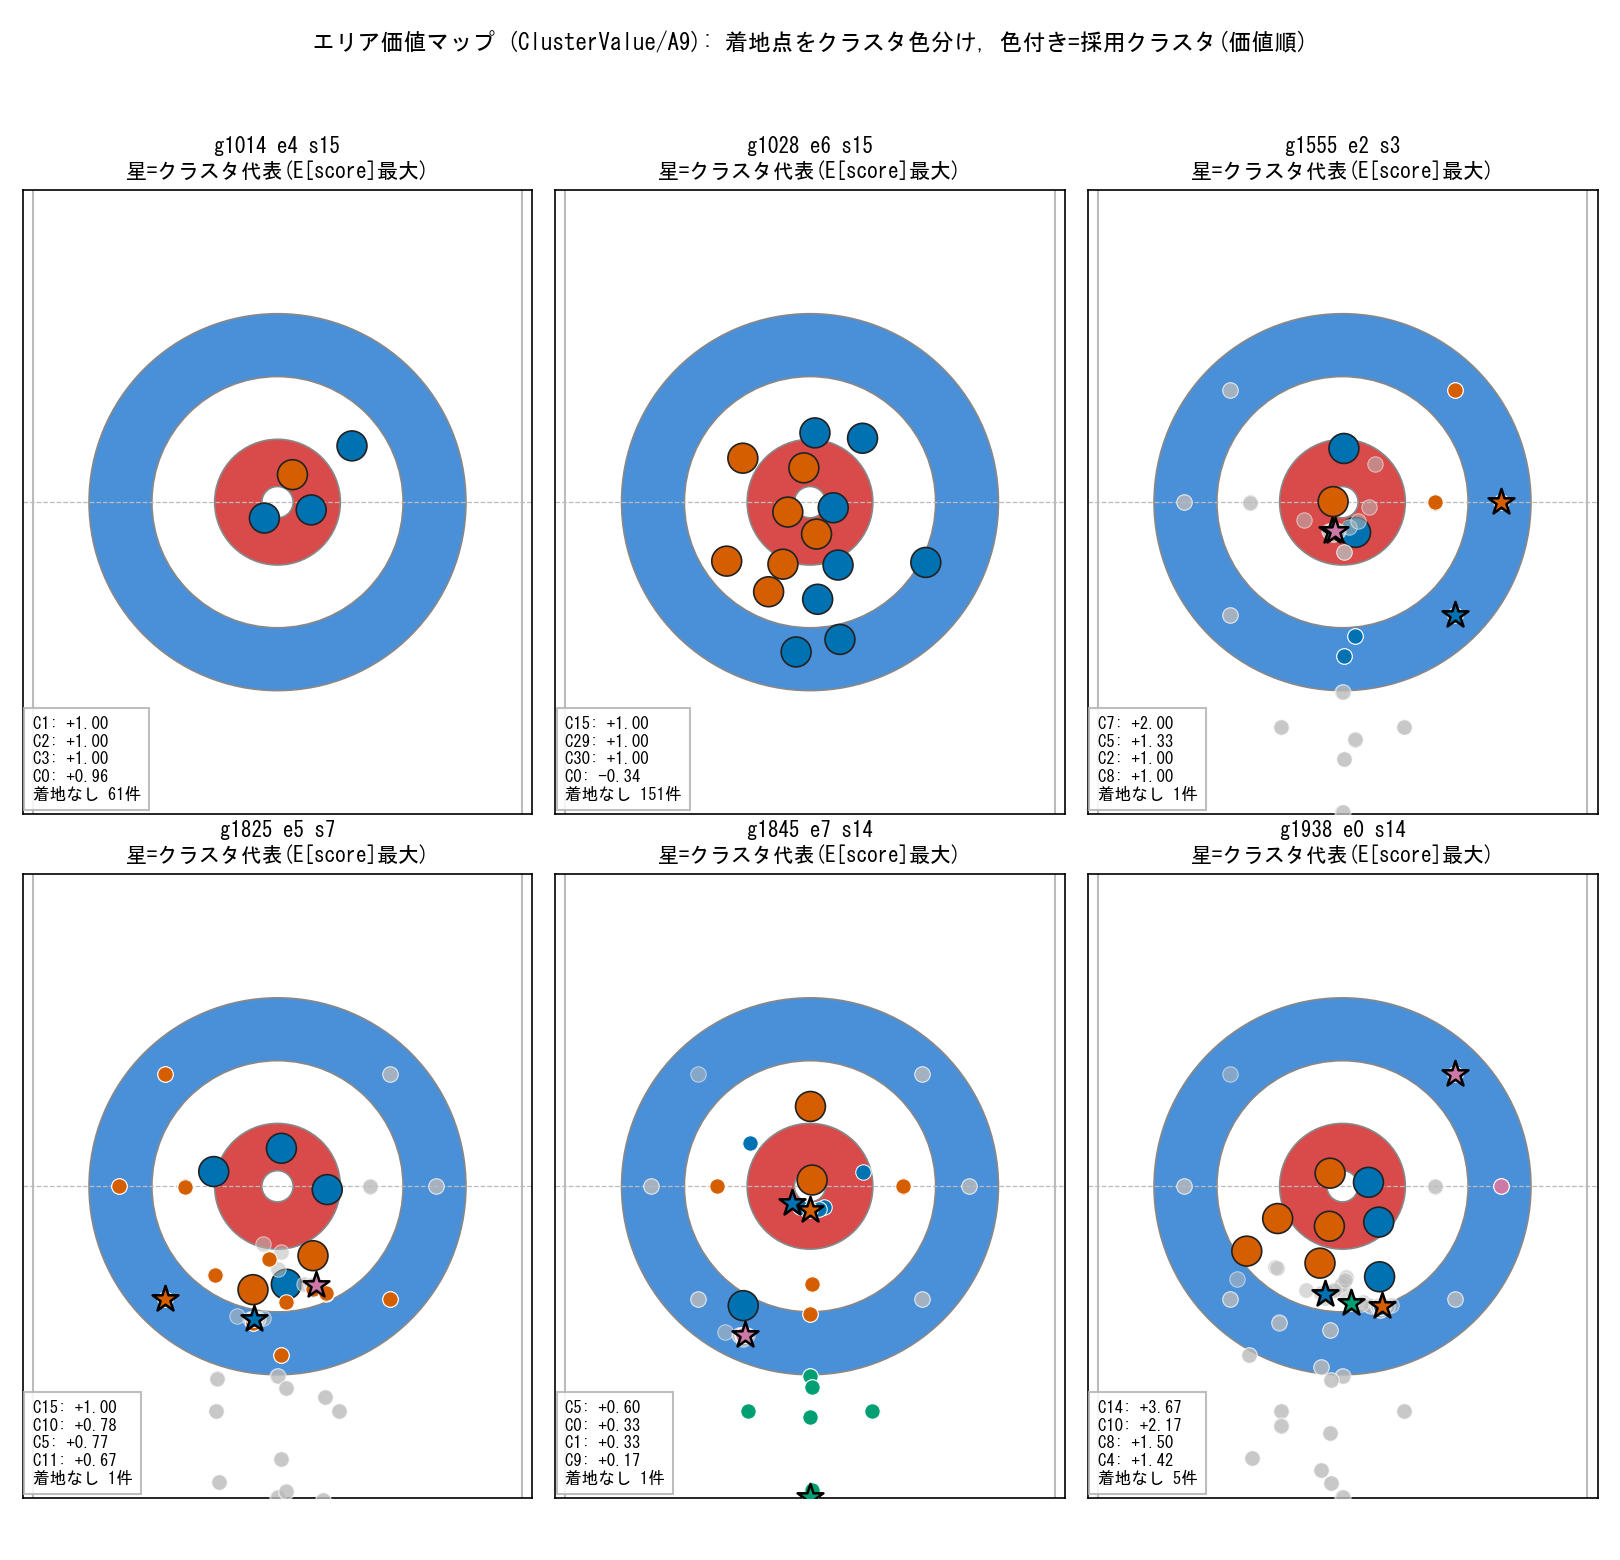
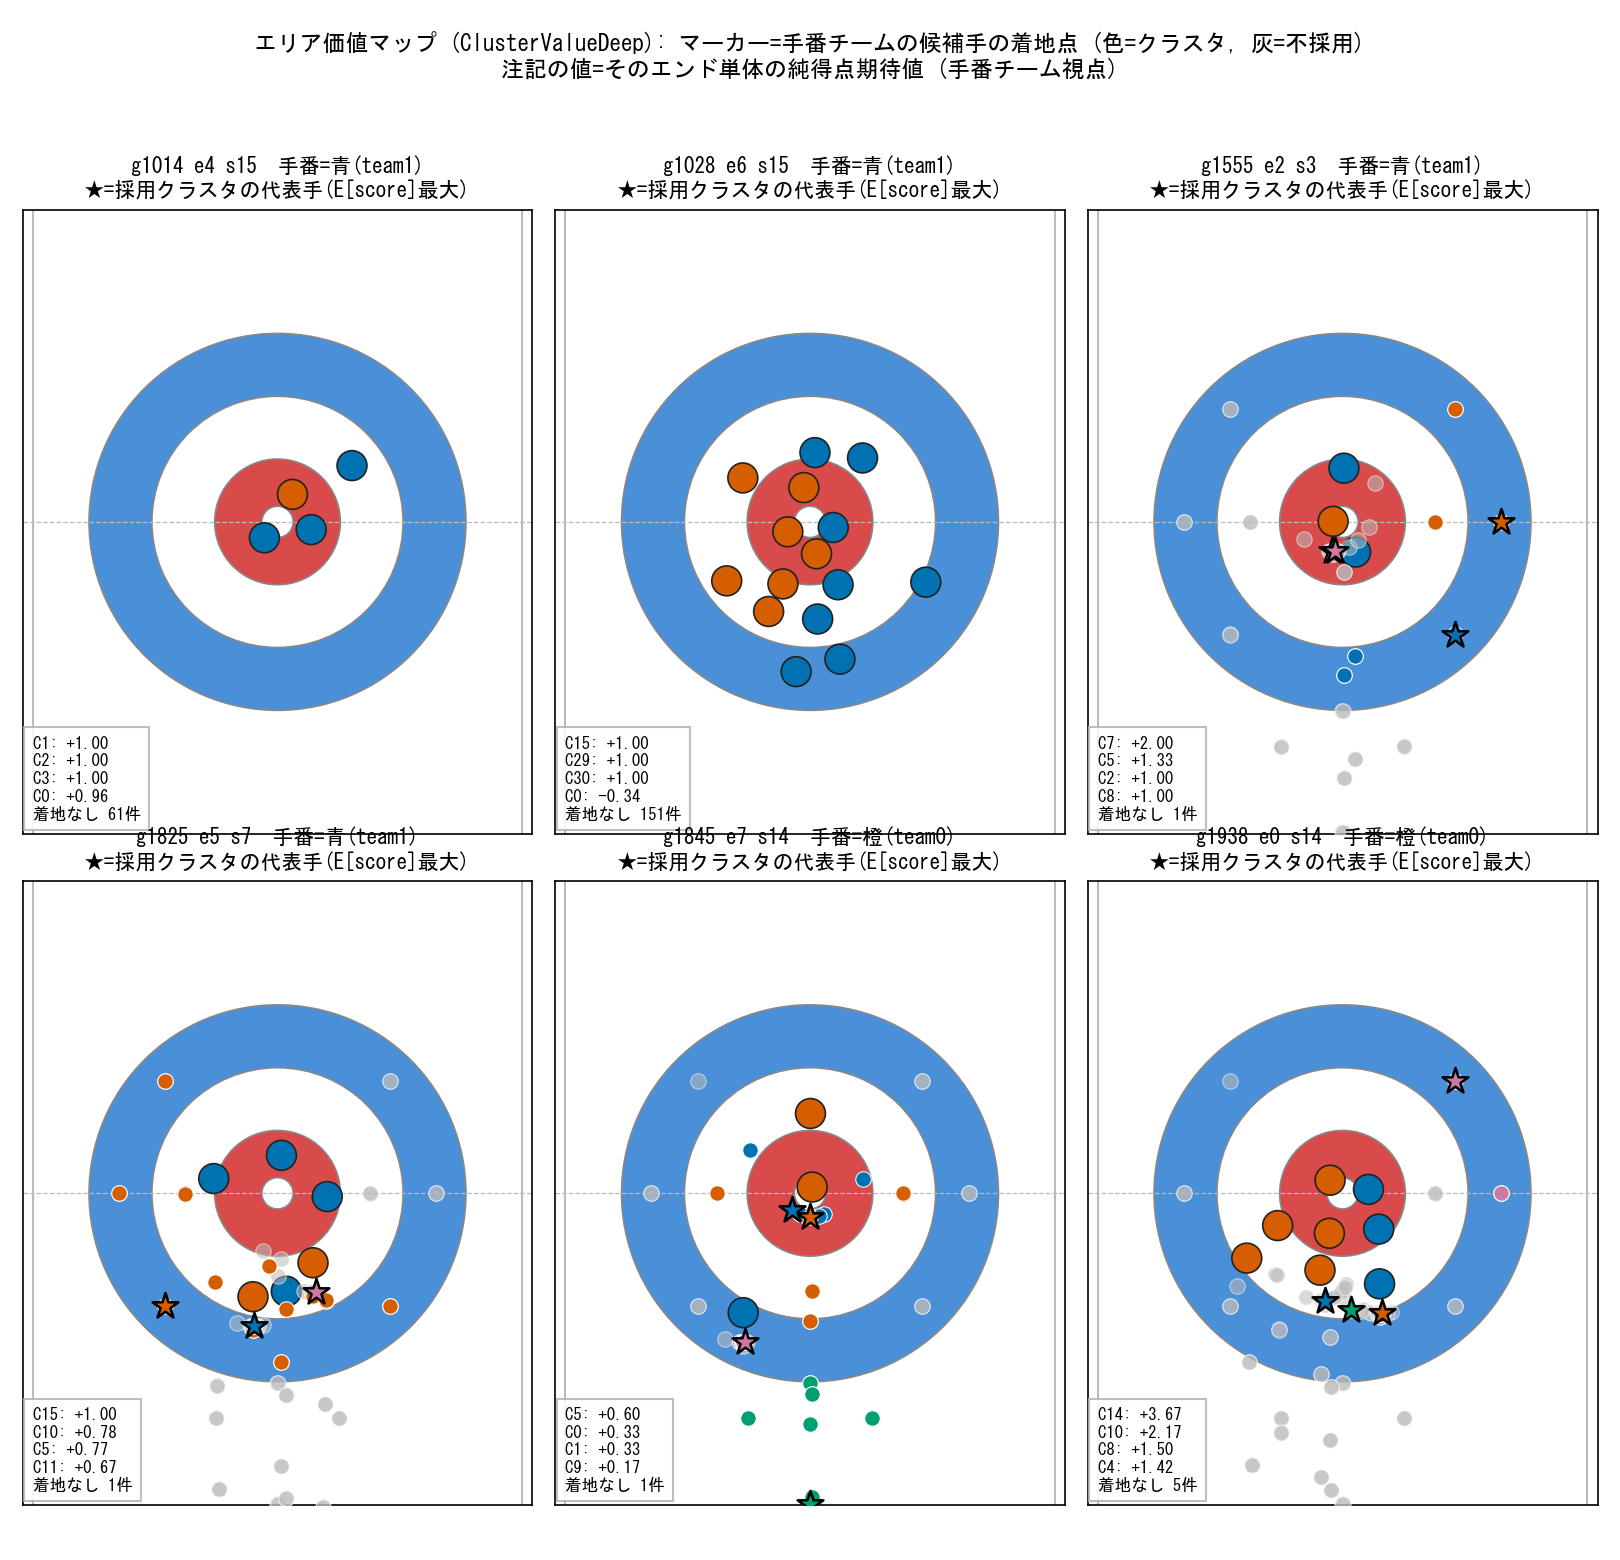
fix: value map readability -- mover team per panel + semantics in title
Each panel now shows 手番=橙(team0)/青(team1) (from the batch CSV team
column) so it is clear whose candidate landings the markers are; the
suptitle states that marker color = cluster (not team) and that the
annotated values are single-end net E[score] from the mover's
perspective. Method name (ClusterValue/ClusterValueDeep) is read from
the cluster_table instead of being hardcoded to A9.

Claude-Session: https://claude.ai/code/session_01DMZAaqHipjXHsiGVVmAHGg

diff --git a/scripts/plot_cluster_value_map.py b/scripts/plot_cluster_value_map.py
@@ -117,10 +117,16 @@ def main():
         ax.axis("off")
     for ax, k in zip(axes, keys):
         g, e, s = k
-        plot_one(ax, per_pos.get(k, []), board.get(k),
-                 f"g{g} e{e} s{s}\n星=クラスタ代表(E[score]最大)")
-    fig.suptitle("エリア価値マップ (ClusterValue/A9): 着地点をクラスタ色分け, 色付き=採用クラスタ(価値順)",
-                 fontsize=11)
+        # 手番チーム: batch CSV の team 列 (0=橙/team0, 1=青/team1)。無ければ shot 偶奇で推定
+        row = board.get(k)
+        team = int(row["team"]) if (row and row.get("team") not in (None, "")) else int(s) % 2
+        mover = "橙(team0)" if team == 0 else "青(team1)"
+        plot_one(ax, per_pos.get(k, []), row,
+                 f"g{g} e{e} s{s}  手番={mover}\n★=採用クラスタの代表手(E[score]最大)")
+    # 手法名は cluster_table の method 列から (A9=ClusterValue / A10=ClusterValueDeep)
+    method = next(iter(per_pos.values()))[0].get("method", "ClusterValue") if per_pos else "ClusterValue"
+    fig.suptitle(f"エリア価値マップ ({method}): マーカー=手番チームの候補手の着地点 (色=クラスタ, 灰=不採用)\n"
+                 f"注記の値=そのエンド単体の純得点期待値 (手番チーム視点)", fontsize=11)
     fig.tight_layout(rect=[0, 0, 1, 0.95])
     p = os.path.join(args.out, "cluster_value_map.png")
     fig.savefig(p, dpi=150); plt.close(fig)
